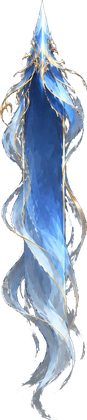
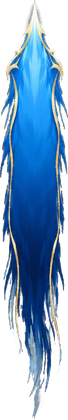
招名旗带用回第一版、删掉重画版；字缩到16号不超出旗带；更新交接

diff --git a/原型/守关.html b/原型/守关.html
@@ -2854,12 +2854,13 @@ const SKC = { guan: ['#a8f0c8', '#0b3a2a'], zhang: ['#ffc08a', '#4a0f08'], liu: 
 const SKB_CV = document.createElement('canvas');
 for (const k of ['guan', 'zhang', 'liu']) { IMG['skb_' + k] = new Image(); IMG['skb_' + k].src = 'img/skb_' + k + '.png' + BUST; }
 function drawSkName(f) {
-  const u = f.t / f.dur; if (u >= 1) return; const n = f.text.length, gap = 25, h = n * gap + 18, grow = ease(f.t / .14), a = u < .78 ? 1 : 1 - (u - .78) / .22, [fill, edge] = SKC[f.id] || ['#fff', INK];
+  const u = f.t / f.dur; if (u >= 1) return; const n = f.text.length, gap = 19, fs = 16, h = n * gap + 18, grow = ease(f.t / .14), a = u < .78 ? 1 : 1 - (u - .78) / .22, [fill, edge] = SKC[f.id] || ['#fff', INK];
   // 10-25 用户：「武器都黑了」——字后面那笔竖着的黑墨立在武将头顶，像一根变黑的长兵器；去掉，改成人物颜色的一团淡光托字
   // 10-25 用户：「这个框再好看点，要比图2更好看，比如上下渐隐？形成剑峰之类的？」——衬一条画的剑形旗带（img/skb_<人>.png：上端剑尖、下端飞白散开、两边细金线），
-  // 从剑尖往下一笔刷出来，刷满后一道高光从上扫到下；没到时退回原来那块和字一样高的光。用户随后让 ChatGPT 重画了一版（里面不挖空、飘带更长），字放在实心那段（上 18%～下 72%）
-  const bim = IMG['skb_' + f.id], ty0 = f.y - h / 2 + 18 - 13, ty1 = f.y - h / 2 + 18 + (n - 1) * gap + 13;
-  if (ready(bim)) { const bh = (ty1 - ty0) * 1.85, bw = Math.min(54, bh * bim.width / bim.height * 1.38), by = ty0 - bh * .18, rv = ease(Math.min(1, f.t / .2));
+  // 从剑尖往下一笔刷出来，刷满后一道高光从上扫到下；没到时退回原来那块和字一样高的光。用户试过重画的宽版后说「之前这个好，但字太大了。字不要超出」：
+  // 用回第一版，旗带固定宽 32（实心那段约 24 宽），字缩到 16 号、弹出只放大到 1.25 倍，整列字居中落在实心那段（上 15%～下 65%）
+  const bim = IMG['skb_' + f.id], ty0 = f.y - h / 2 + 18 - 10, ty1 = f.y - h / 2 + 18 + (n - 1) * gap + 10, tc = f.y - h / 2 + 18 + (n - 1) * gap / 2;
+  if (ready(bim)) { const bw = 32, bh = bw / 1.15 * bim.height / bim.width, by = tc - bh * .4, rv = ease(Math.min(1, f.t / .2));
     let src = bim; const sp = (f.t - .22) / .35;
     if (sp > 0 && sp < 1) { const iw = bim.width, ih = bim.height, yy = ih * sp, hb = 26 * ih / bh, g2 = SKB_CV.getContext('2d');   // 高光只扫在旗带本身（离屏画好再贴；直接在主画布上 source-atop 会把背后的地也刷亮，成一块方光板）
       SKB_CV.width = iw; SKB_CV.height = ih; g2.drawImage(bim, 0, 0); const gr = g2.createLinearGradient(0, yy - hb, 0, yy + hb); gr.addColorStop(0, 'rgba(255,250,225,0)'); gr.addColorStop(.5, 'rgba(255,250,225,.55)'); gr.addColorStop(1, 'rgba(255,250,225,0)');
@@ -2868,8 +2869,8 @@ function drawSkName(f) {
   else { const gh = ty1 - ty0 + 12, fd = 10 / gh, gl = ctx.createLinearGradient(0, ty0 - 6, 0, ty1 + 6); gl.addColorStop(0, 'rgba(0,0,0,0)'); gl.addColorStop(fd, fill); gl.addColorStop(1 - fd, fill); gl.addColorStop(1, 'rgba(0,0,0,0)');
     ctx.save(); ctx.globalCompositeOperation = 'lighter'; ctx.globalAlpha = .35 * a * grow; ctx.fillStyle = gl; ctx.fillRect(f.x - 16, ty0 - 6, 32, gh); ctx.restore(); }
   ctx.textAlign = 'center'; ctx.textBaseline = 'middle'; ctx.lineJoin = 'round';
-  for (let i = 0; i < n; i++) { const t = f.t - .05 - i * .05; if (t < 0) continue; const p = t < .1 ? 1.6 - .6 * (t / .1) : 1, y = f.y - h / 2 + 18 + i * gap;
-    ctx.globalAlpha = a; ctx.font = `${22 * p}px ${FONT}`; ctx.lineWidth = 4; ctx.strokeStyle = edge; ctx.strokeText(f.text[i], f.x + 1, y); ctx.fillStyle = fill; ctx.fillText(f.text[i], f.x + 1, y); }
+  for (let i = 0; i < n; i++) { const t = f.t - .05 - i * .05; if (t < 0) continue; const p = t < .1 ? 1.25 - .25 * (t / .1) : 1, y = f.y - h / 2 + 18 + i * gap;
+    ctx.globalAlpha = a; ctx.font = `${fs * p}px ${FONT}`; ctx.lineWidth = 3; ctx.strokeStyle = edge; ctx.strokeText(f.text[i], f.x + 1, y); ctx.fillStyle = fill; ctx.fillText(f.text[i], f.x + 1, y); }
   ctx.globalAlpha = 1;
 }
 // 青龙斩：偃月刀光从关羽身上飞出去，越飞越大，身后拖两道残影，到了正好砍下

diff --git a/设计/方案初稿.md b/设计/方案初稿.md
@@ -460,7 +460,8 @@
 - **神兵页右边三格**（10-25 用户：「为什么有些方框的东西」）：原来套了关卡牌那张底，缩小后里面的金边像个方框；改成暗底加细金框，选中的那格金边发光。
 - **大招特写边缘**（10-25 用户：「边缘好明显」）：视频画面左右边把袖子切成直边，渐隐从 40 像素改成左右各 16% 宽、腰下 20% 高、平滑曲线，五条重出。
 - **招名背后的光、大「喝」字**（10-25 用户：「背后那个光很好，但应该和字一样高」「这个喝的大的不要放这里，放整个屏幕中间，可以更大一点点」）：竖排招名后面那块光从第一个字顶到最后一个字底，上下只多 10 像素淡出；当阳一喝的大「喝」字不跟着张飞站位，放战场正中、大两成。
-- **招名衬剑形旗带**（10-25 用户：「这个框再好看点，要比图2更好看，比如上下渐隐？形成剑峰之类的？」，随后让 ChatGPT 重画「里面不要挖空」，说「你试下这3个新的」）：竖排招名后面那块光换成 ChatGPT 画的三条剑形旗带（关羽青绿、张飞火红、刘备蓝；上端剑尖、两边细金线、下半飘带散开淡出），原图 `美术/界面/招名剑形旗带.jpg`，抠成 `原型/img/skb_guan/zhang/liu.png`。出招时从剑尖往下 0.2 秒刷出，刷满后一道高光从上扫到下（离屏画好再贴，只亮旗带本身）；字落在实心那段。最左那员武将出招时旗带正好压在「功」按钮上，按钮先淡下去。只改画面；手机上没看过。
+- **招名衬剑形旗带**（10-25 用户：「这个框再好看点，要比图2更好看，比如上下渐隐？形成剑峰之类的？」）：竖排招名后面那块光换成 ChatGPT 画的三条剑形旗带（关羽青绿、张飞火红、刘备蓝；上端剑尖、两边细金线、下端飘带散开淡出），原图 `美术/界面/招名剑形旗带.jpg`，抠成 `原型/img/skb_guan/zhang/liu.png`。出招时从剑尖往下 0.2 秒刷出，刷满后一道高光从上扫到下（离屏画好再贴，只亮旗带本身；直接在主画布上刷会把背后地面也刷亮成方光板）。最左那员武将出招时旗带压在「功」按钮上，按钮先淡下去。
+  - 用户让 ChatGPT 重画了一版更宽、里面不挖空的（「你试下这3个新的」），换上看过后说「我觉得之前这个好，但字太大了。字不要超出。用回这个，删除新的」：用回第一版，重画那版的图和抠图都删了；旗带固定宽 32（实心那段约 24 宽），字从 22 号缩到 16 号、描边 3、弹出只放大到 1.25 倍，整列字居中落在实心那段。只改画面；手机上没看过。
 - **暂停、军功面板、军师建议**（10-25 用户：「要有暂停键，红框位置放军功（点开可以看现有军功，方便思考）军师可以给建议（智力越强的给出建议越好），要把军功这里设置得更复杂一些，那么一些垃圾军师就经常给不好的建议」「但军师如果只是一味看智力高低，好像也没意思，怎么破？」）：
   - 暂停：顶栏右边「退」下面一个暂停钮，暂停时可以继续、看军功、退出这一关。
   - 军功：城头左上方一个「功」圆钮，点开整个战场停住，列出已有战法（头像或图标、名字×层数、一句效果）、下次晋升还差多少、军师报的敌情和主意。
